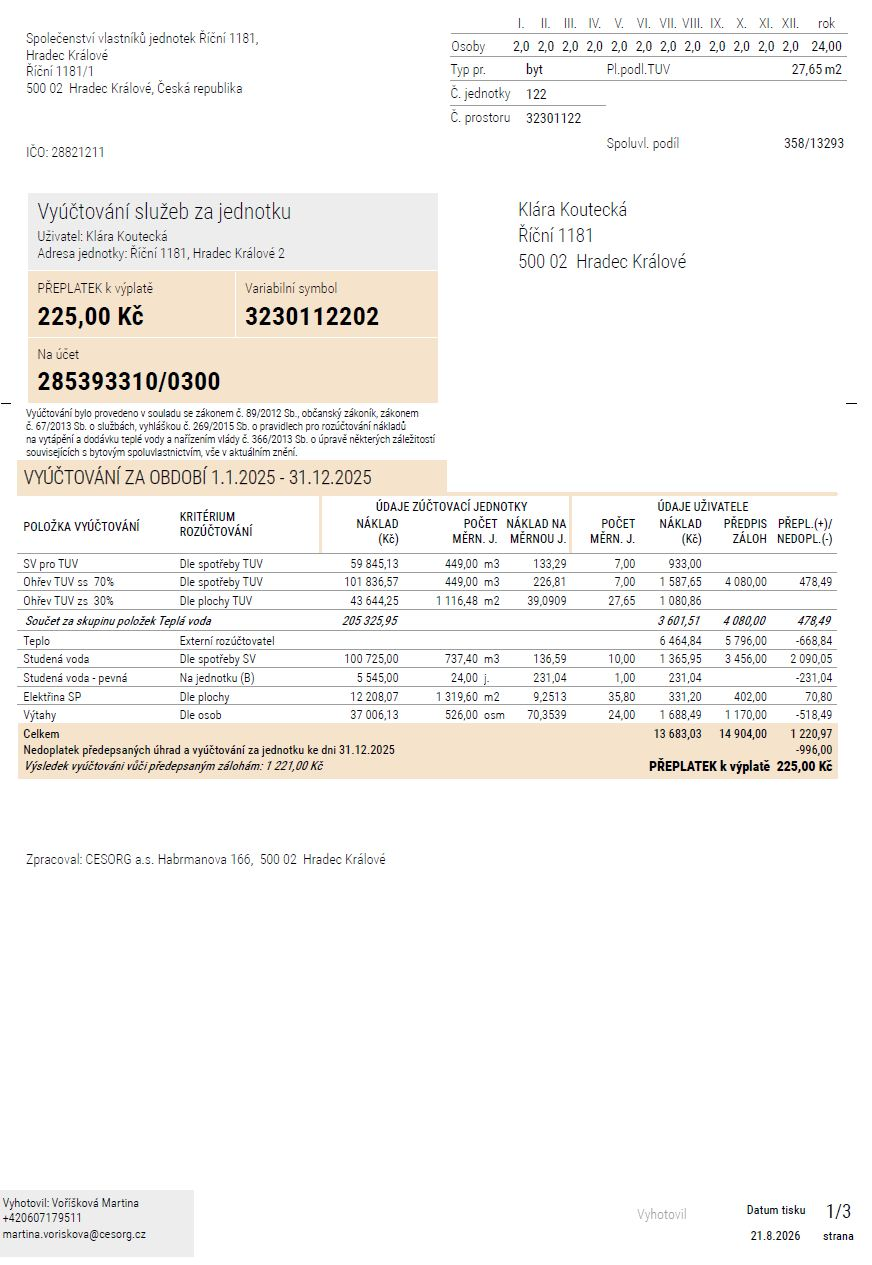
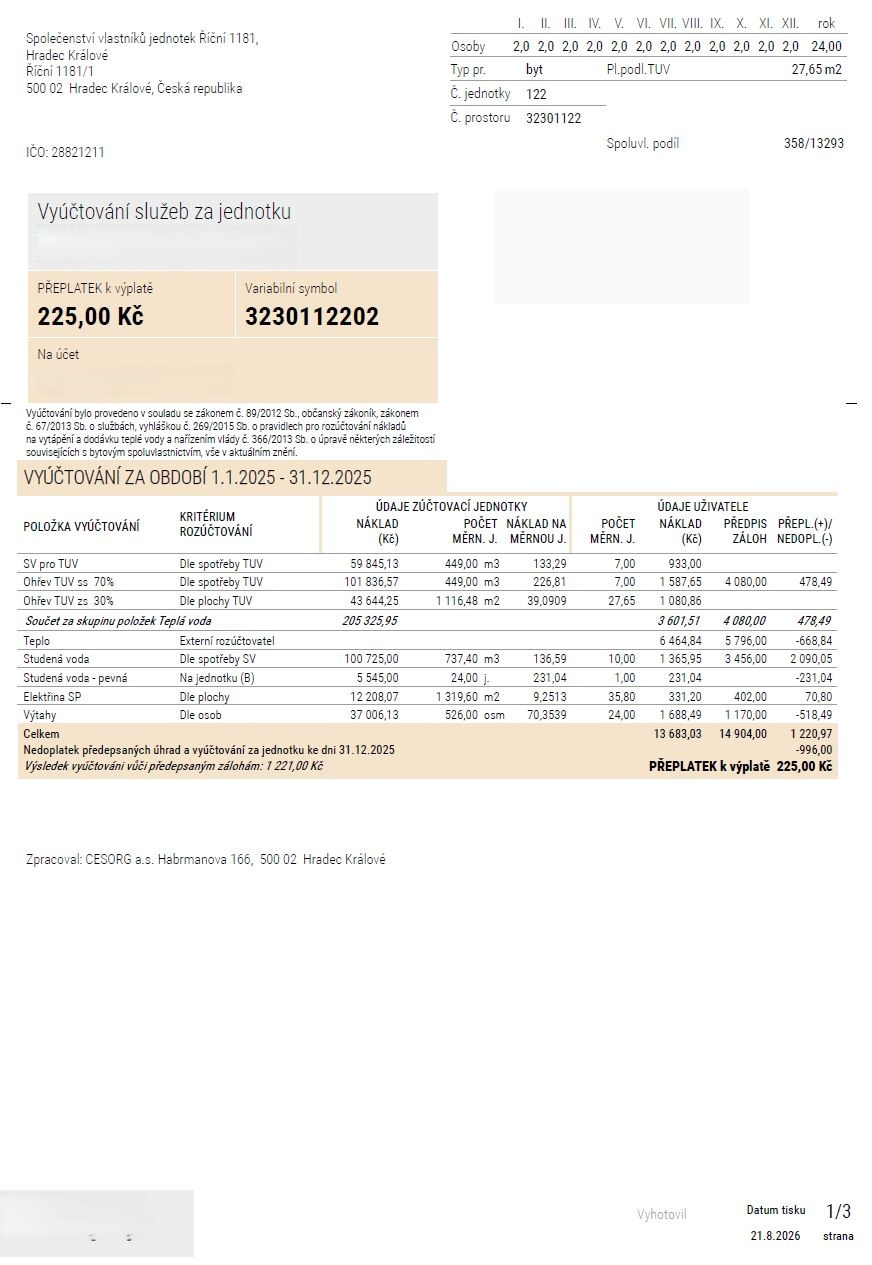
clanek

diff --git a/src/content/catalogue/ricni.md b/src/content/catalogue/ricni.md
@@ -41,7 +41,7 @@ slug: ricni
 thumbnail_local: ricni-32.jpg
 price: Připravujeme
 mapy_link: https://mapy.com/s/gavabezogo
-youtube_link: https://mapy.com/s/gavabezogo
+youtube_link: https://www.youtube.com/embed/wYY5IdRGhgM?si=tZxCVp6eTyHi1zaq
 ---
 
 V Hradci si obvykle musíte vybrat – buď centrum, nebo klid a zeleň. V ulici Říční máte obojí. Podél Labe vede cyklostezka a do centra dojdete pěšky za pět minut.
@@ -91,30 +91,14 @@ Po takových bytech je v Hradci Králové na pronájem slušná poptávka. Jestl
 
 ## Praktické informace
 
-### Dispozice a plochy
+### Prohlášení vlastníka
 
 Podle prohlášení vlastníka se jednotka skládá z těchto místností:
-
-| Místnost        | Plocha       |
-| --------------- | ------------ |
-| Pokoj           | 17,30 m²     |
-| Kuchyně         | 3,70 m²      |
-| Hala, předsíň   | 2,62 m²      |
-| Komora v bytě   | 1,02 m²      |
-| Koupelna s WC   | 3,07 m²      |
-| Lodžie (balkon) | 7,20 m²      |
-| Sklep           | 1,00 m²      |
-| **Celkem**      | **35,85 m²** |
-
-Vytápěná plocha činí 21,00 m². K jednotce náleží spoluvlastnický podíl 358/13293 na společných částech domu a pozemku.
+![Byt 1+kk Říční 1181, Hradec Králové](/ricni/ricni-29.jpg)
 
 ### 3D prohlídka:
 
 <iframe width="853" height="480" src="https://my.matterport.com/show/?m=J4Vs6goMYcK" frameborder="0" allowfullscreen allow="autoplay; fullscreen; web-share; xr-spatial-tracking;"></iframe>
-
-### Prohlášení vlastníka:
-
-![Byt 1+kk Říční 1181, Hradec Králové](/ricni/ricni-29.jpg)
 
 ### Půdorys měřený laserem:
 
@@ -123,18 +107,6 @@ Vytápěná plocha činí 21,00 m². K jednotce náleží spoluvlastnický podí
 ### Měsíční poplatky
 
 Předpis měsíčních úhrad je **2 682 Kč** (platný k 1. 9. 2026, počítáno pro 2 osoby) a zahrnuje:
-
-| Položka                      | Kč / měsíc |
-| ---------------------------- | ---------- |
-| Fond oprav (PSDaP)           | 1 074      |
-| Pojištění domu               | 28         |
-| Správní činnost              | 255        |
-| Výtahy                       | 160        |
-| Elektřina společných prostor | 54         |
-| Teplo                        | 483        |
-| Teplá voda                   | 340        |
-| Studená voda                 | 288        |
-| **Celkem**                   | **2 682**  |
 
 ![Byt 1+kk Říční 1181, Hradec Králové](/ricni/ricni-25.jpg)
 
